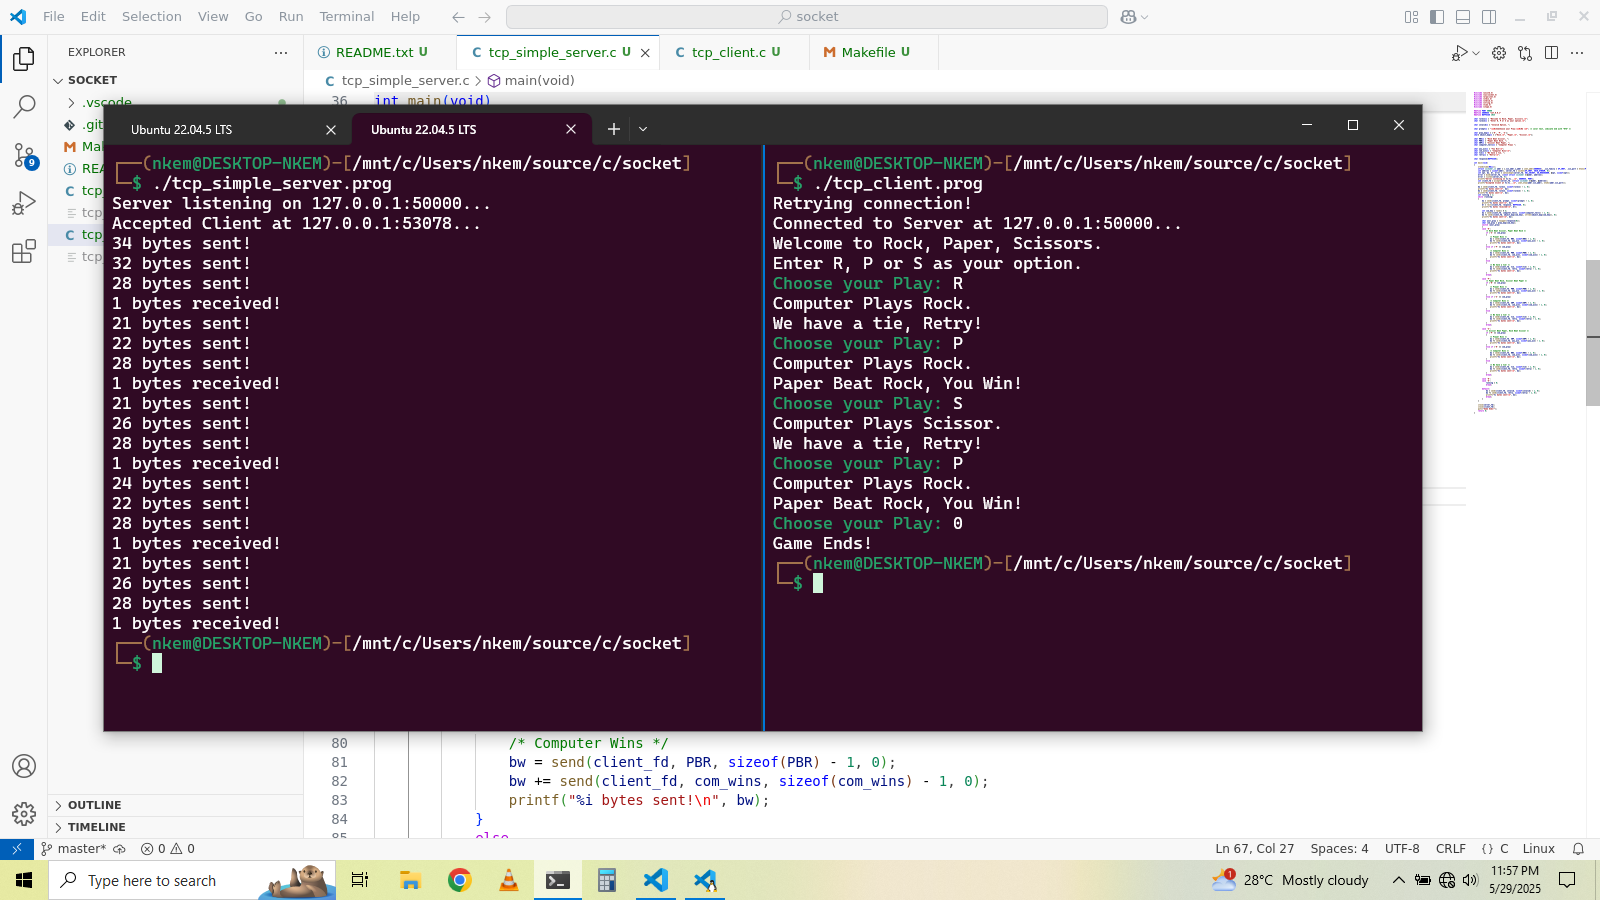
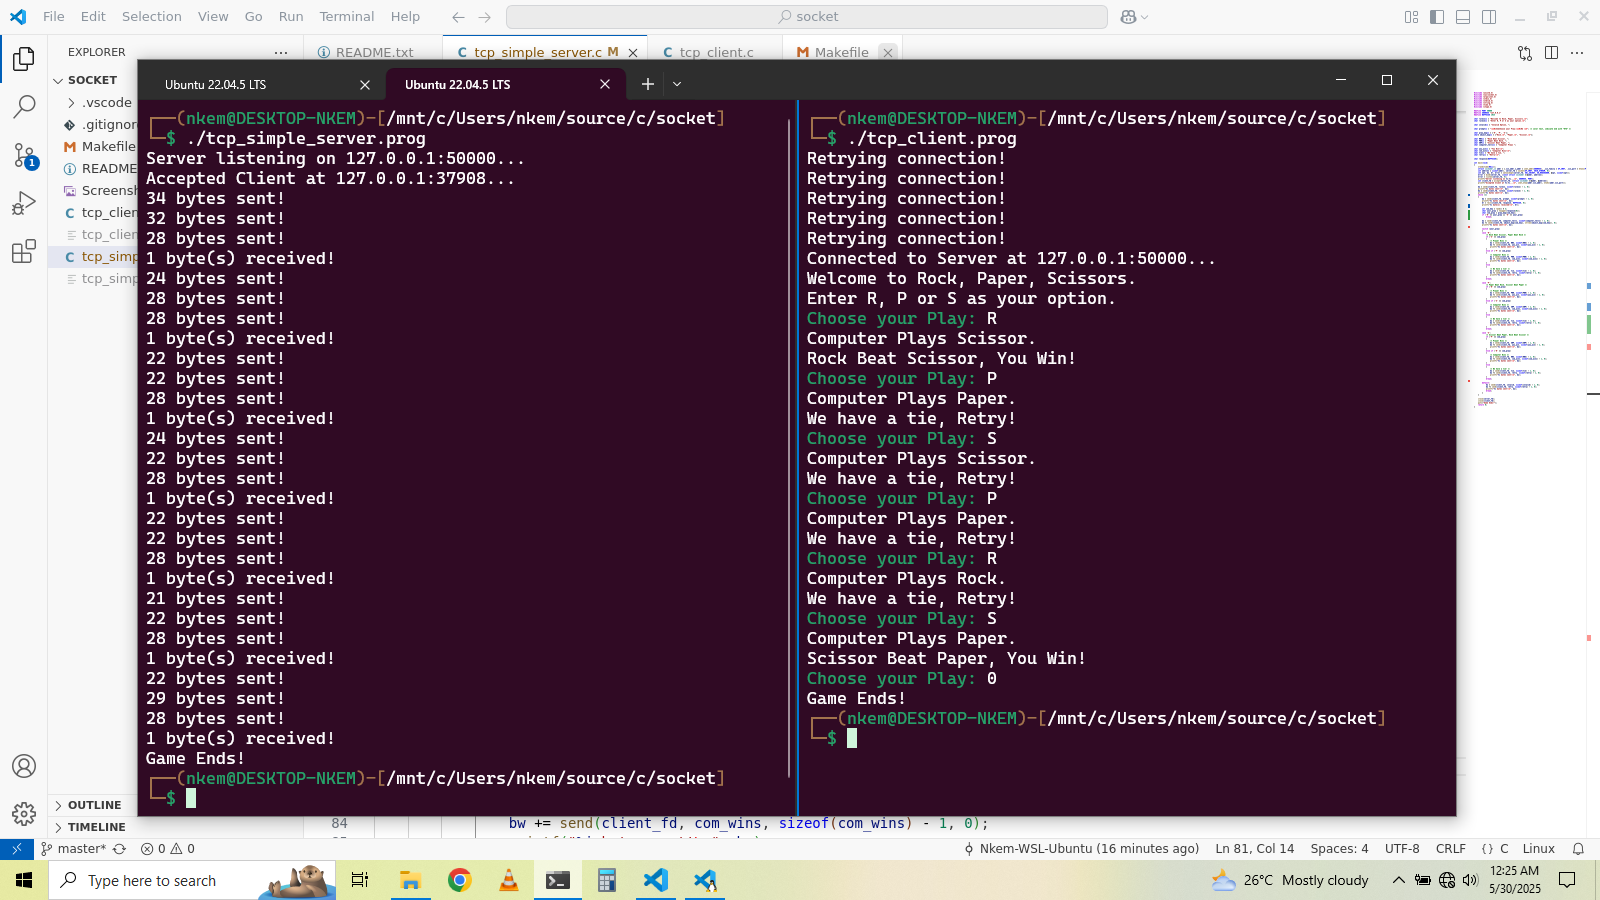
Server strangely closing skipped

diff --git a/tcp_simple_server.c b/tcp_simple_server.c
@@ -49,21 +49,23 @@ int main(void)
     printf("%i bytes sent!\n", bw);
     bw = send(client_fd, rules2, sizeof(rules2) - 1, 0);
     printf("%i bytes sent!\n", bw);
-    int running = 1;
-    while (running)
+    while (1)
     {
         bw = send(client_fd, prompt, sizeof(prompt) - 1, 0);
         printf("%i bytes sent!\n", bw);
         br = recv(client_fd, response, BUFFSIZE, 0);
-        printf("%i bytes received!\n", br);
-        
+        printf("%i byte(s) received!\n", br);
+
         int com_key = rand() % 3;
+        char your_play = toupper(response[0]);
+        char com_play = play_map[com_key];
+        if ('0' == your_play || 'E' == your_play)
+            break;
+
         bw = send(client_fd, computer_tells, sizeof(computer_tells) - 1, 0);
         bw += send(client_fd, object_map[com_key], strlen(object_map[com_key]), 0);
         printf("%i bytes sent!\n", bw);
 
-        char your_play = toupper(response[0]);
-        char com_play = play_map[com_key];
         switch (your_play)
         {
         case 'R':
@@ -139,11 +141,6 @@ int main(void)
                 bw += send(client_fd, retry, sizeof(retry) - 1, 0);
                 printf("%i bytes sent!\n", bw);
             }
-            break;
-
-        case '0':
-        case 'E':
-            running = 0;
             break;
 
         default:
